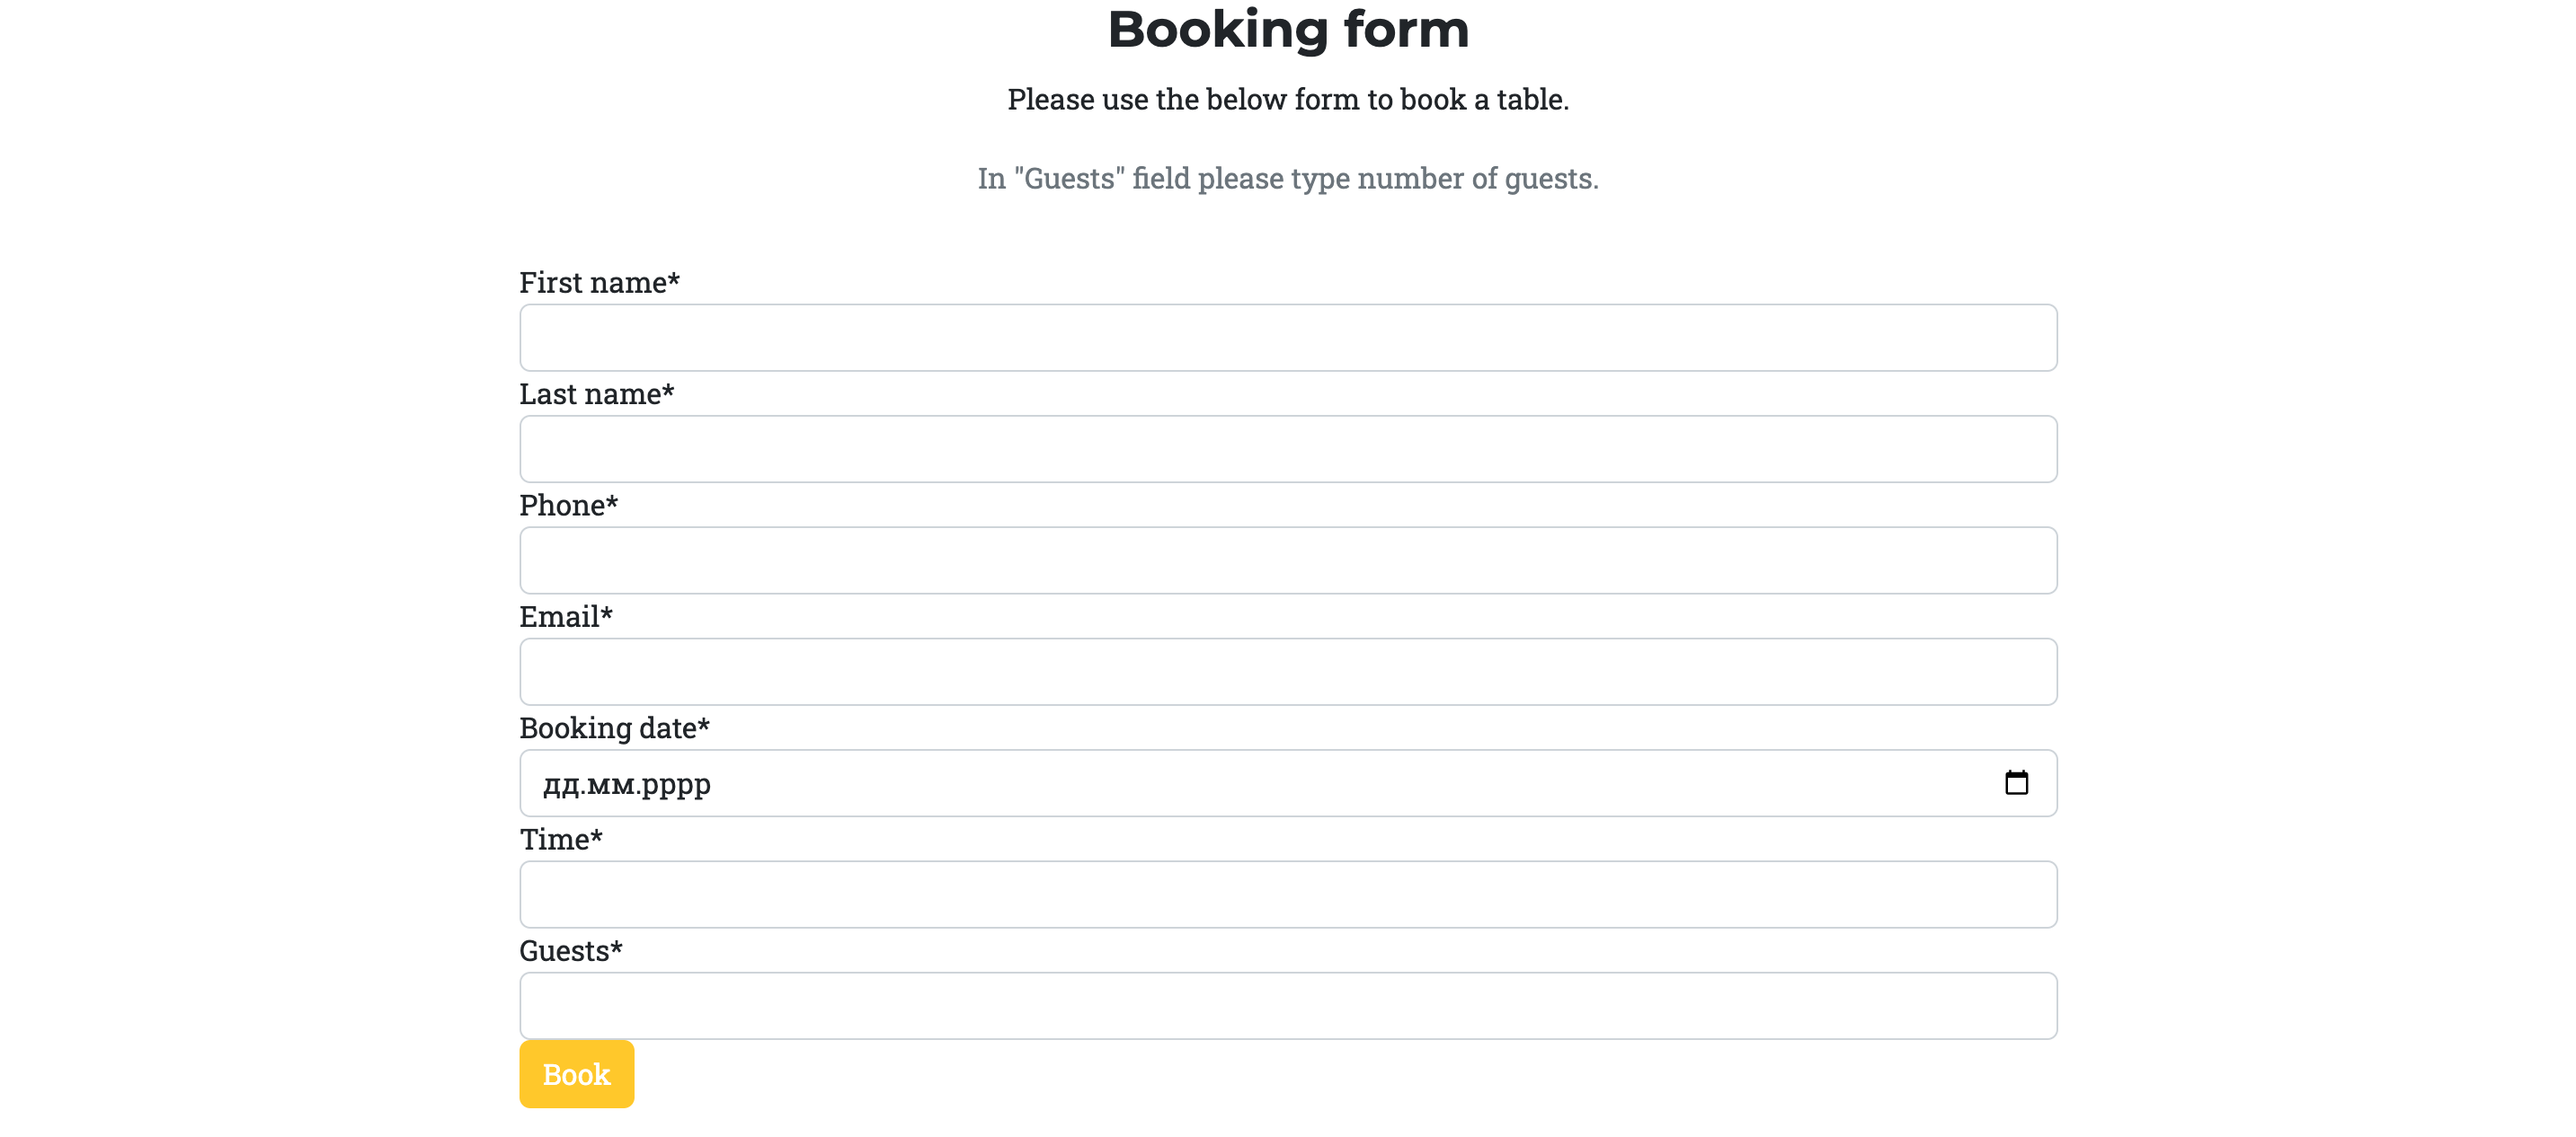
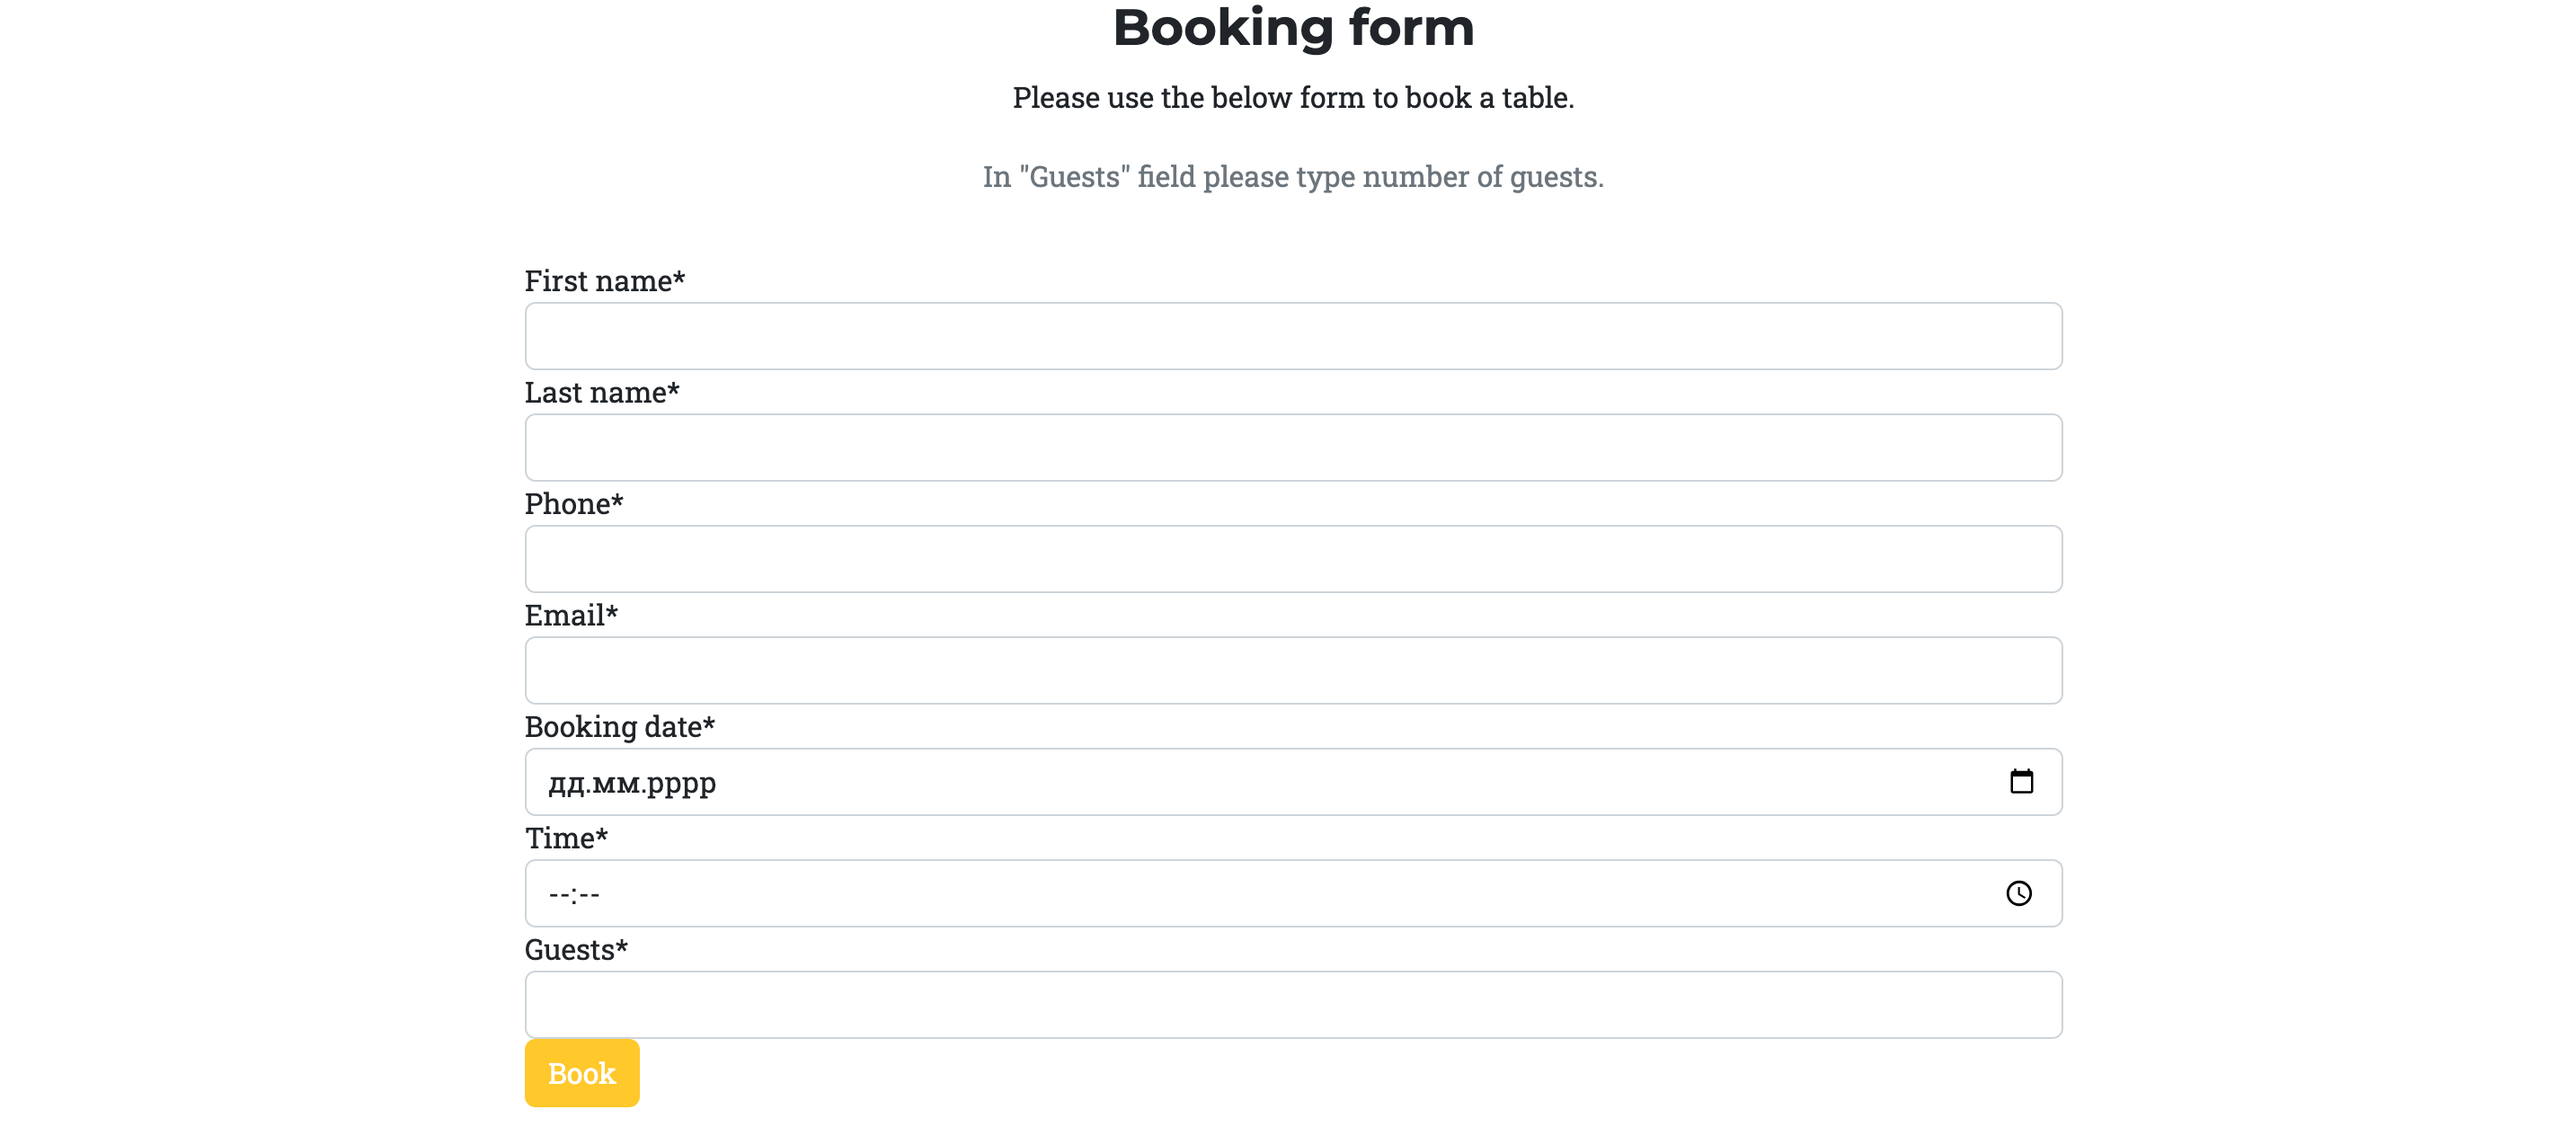
Refactor code and add validation results

diff --git a/cafe/forms.py b/cafe/forms.py
@@ -4,12 +4,9 @@ specials forms.
 Based on the Booking and Specials models.
 """
 from datetime import datetime
-
 from django import forms
-from tempus_dominus.widgets import DateTimePicker
 from crispy_forms.helper import FormHelper
 from crispy_forms.layout import Submit
-from cloudinary.models import CloudinaryField
 from .models import Booking, Specials
 
 

diff --git a/cafe/models.py b/cafe/models.py
@@ -9,7 +9,6 @@ from django.contrib.auth.models import User
 from cloudinary.models import CloudinaryField
 from django.core.exceptions import ValidationError
 from django.core.validators import MinValueValidator
-from django.utils import timezone
 
 
 # Today's Specials model

diff --git a/README.md b/README.md
@@ -4,7 +4,7 @@
 
 The Ukrainian Cafe website is made for a cafe. This website shows today's specials, menu, contact information, and opening hours. Potential customers can register and book a table online using a form on the "Booking" page of the website. Registered users can view, edit and delete their bookings. Site user administrators have access to all bookings and all create, edit and delete functionalities. Administrators are also able to update today's specials list by adding new items, updating or deleting existing ones.
 
-The website is designed to be responsible on a range of devices.
+The website is designed to be responsive on a range of devices.
 
 ![Am I responsive screenshot](static/assets/docs/responsive.jpg)
 
@@ -115,7 +115,7 @@ Click on a user story to see the details.
 | phone | CharField |
 | email | EmailField |
 | booking_date | DateField |
-| time | CharField |
+| time | TimeField |
 | guests | IntegerField |
 
 
@@ -294,68 +294,10 @@ The application is responsive on all device sizes, thanks to the Boostrap theme.
 
 ## Testing
 
-The W3C Markup Validator and W3C CSS Validator Services were used to validate  HTML and CSS of the project to ensure there were no syntax errors in the project. I used the inbuilt pylint to validate the Python files.
+- **Validation** CSS, HTML, Python and Google Lighthouse [results](https://github.com/konstanciaa/ukrainian-cafe/tree/main/static/assets/docs/validation)
 
-[Validation and Google Lighthouse results](https://github.com/konstanciaa/ukrainian-cafe/tree/main/static/assets/docs/validation)
+- **User Stories Testing** and **Features Testing** can be found [here](https://github.com/konstanciaa/ukrainian-cafe/tree/main/static/assets/docs/validation/testing.md)
 
-#### Manual Testing
-
-Each user story was manually tested in line with intended functionality on both desktop & mobile. As this project was driven by my own User Stories I  felt manual testing was applicable on all logic code. If the intended outcome completes then this will be flagged as pass. If it does not then this is a fail.
-
-#### Account Registration Tests
-| Test |Result  |
-|--|--|
-| User can register on the website | Pass |
-| User can log into account| Pass|
-|User can log out of account|Pass|
-
-#### User Navigation Tests
-
-| Test |Result  |
-|--|--|
-|User can navigate to Today's Special section on the home page | Pass |
-|User can navigate to Menu section on the home page | Pass |
-|User can navigate to Contact Us section on the home page | Pass |
-|Unregistered user can click "Book a Table" to be redirected to log in page | Pass |
-|Logged in user can click "Book a Table" to be redirected to Add Booking page | Pass |
-|Logged in user can navigate to My Bookings | Pass |
-|Supruser can access Today's Specials page| Pass|
-|Supruser can access Bookings | Pass|
-|SuperUser can access admin panel|Pass|
-
-#### Account Security Tests
-
-| Test |Result  |
-|--|--|
-|Non logged in user cannot make a booking | Pass |
-|Non logged in user cannot access bookings page| Pass|
-|Non superuser cannot view all users bookings |Pass|
-|Non superuser cannot access Today's Specials page |Pass|
-|Non superuser cannot access admin panel|Pass|
-
-#### Booking Tests
-
-| Test |Result  |
-|--|--|
-|User can make a booking when all fields complete | Pass |
-|User tries to submit booking with empty form |Fail|
-|User tries to submit form without email address| Fail|
-|User tries to submit form without phone number | Fail|
-|User can view their bookings on My Bookings page |Pass|
-|User can edit their booking | Pass|
-|User can delete their booking | Pass|
-|Business owner can view all bookings | Pass |
-|Business owner can edit all bookings | Pass |
-|Business owner can delete all bookings | Pass |
-
-#### Specials Tests
-
-| Test |Result  |
-|--|--|
-|Business owner can add items to specials|Pass|
-|Business owner can add a new item with title, description and image in "Add Specials" form |Pass|
-|Business owner can edit items in specials|Pass|
-|Business owner can delete items in specials|Pass|
 
 <a name="bugs"></a>
 

diff --git a/static/assets/docs/validation/testing.md b/static/assets/docs/validation/testing.md
@@ -1,0 +1,64 @@
+Each user story was manually tested in line with intended functionality on both desktop & mobile. 
+
+### Account Registration Tests
+| Instruction | Result  |
+|--|--|
+| Click Login  | Redirected to Sign in form. There are two fields: Username, Password |
+| Click Sign up to register an account| Redirected to sign up form with four fields: Username, E-mail, Password, Password confirmation |
+| Click Sign up button without filling out the form| The form isn't submitted|
+|Fill out the form|All the fields are working properly. New account is registered. I'm logged in and redirected to home page.|
+|Click Logout | Redirected to Sign out page with question to confirm Sign out |
+| Click Sign out button | Successfully signed out and redirected to home page. |
+| Click Login and enter your Username and Password | Successfully logged in and redirected to home page |
+
+### User Navigation Tests
+
+| Instruction | Result  |
+|--|--|
+|Click Today's Specials | I'm moved to Today's Specials section on the home page |
+|Click Menu |  I'm moved to Menu section on the home page |
+| Click any of the Menu sections | I can see pop up window with more details about this section |
+| Click Close | The pop up window is closed |
+| Click Contact us | I'm moved to Contact Us section on the home page |
+| Click "Book a Table" button | I'm redirected to sign in page |
+| Sign in and click "Book a Table" button | Redirected to Booking form page |
+| Click My Bookings | Redirected to My Bookings page |
+| Sign in as Superuser and click Bookings | Redirected to Bookings page. As a superuser I can see all the bookings made by all the users |
+| Sign in as Superuser and click Todays's Specials | Redirected to Today's specials page with the table of specials |
+| Click Add Specials | Redirected to Today's specials form with four fields: Title, Description, Image, Today |
+| Click "Ukrainian Cafe" logo in the top left corner | Redirected to home page |
+
+### Account Security Tests
+
+| Instruction | Result  |
+|--|--|
+| Log out and try to open booking page by adding "/add_booking/" to website's url  | Redirected to Sign in page |
+| Log out and try to access Today's Specials page by adding "/today_specials/" to website's url  | Redirected to Sign in page |
+|Non logged in user cannot access bookings page | Pass|
+|Non superuser cannot view all users bookings |Pass|
+|Non superuser cannot access Today's Specials page |Pass|
+|Non superuser cannot access admin panel|Pass|
+
+### Booking Tests
+
+| Test |Result  |
+|--|--|
+|User can make a booking when all fields complete | Pass |
+|User tries to submit booking with empty form |Fail|
+|User tries to submit form without email address| Fail|
+|User tries to submit form without phone number | Fail|
+|User can view their bookings on My Bookings page |Pass|
+|User can edit their booking | Pass|
+|User can delete their booking | Pass|
+|Business owner can view all bookings | Pass |
+|Business owner can edit all bookings | Pass |
+|Business owner can delete all bookings | Pass |
+
+### Specials Tests
+
+| Test |Result  |
+|--|--|
+|Business owner can add items to specials|Pass|
+|Business owner can add a new item with title, description and image in "Add Specials" form |Pass|
+|Business owner can edit items in specials|Pass|
+|Business owner can delete items in specials|Pass|
